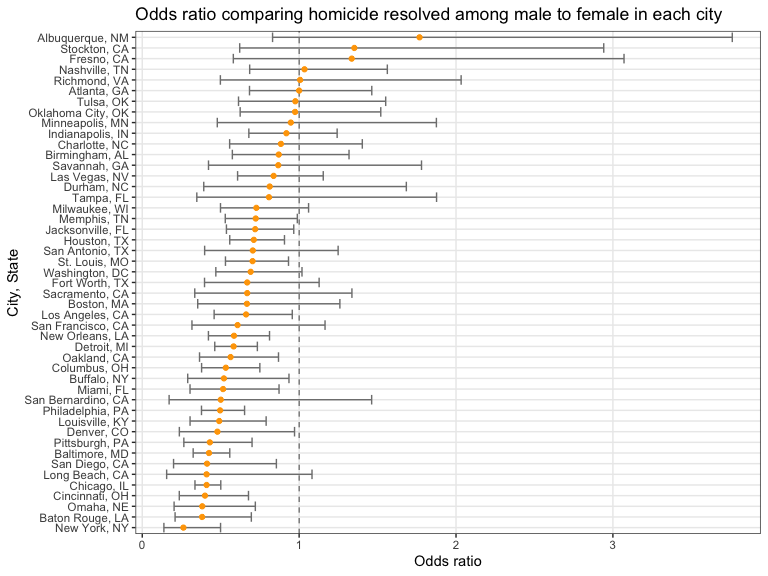
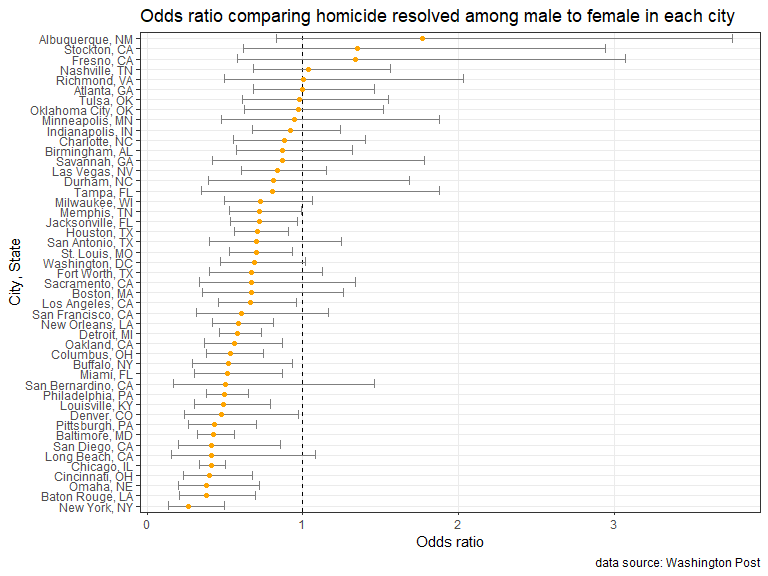
Created a violin plot to show the rmse results of three models. Created a table to show the mean rmse values of three models.

Changed region(s): [[0.0, 0.0, 1.0, 1.0], [0.7812, 0.9688, 1.0, 1.0]]

diff --git a/HW6.md b/HW6.md
@@ -4,10 +4,10 @@ Chee Kay Cheong
 2022-12-03
 
     ## ── Attaching packages ─────────────────────────────────────── tidyverse 1.3.2 ──
-    ## ✔ ggplot2 3.4.0      ✔ purrr   0.3.5 
-    ## ✔ tibble  3.1.8      ✔ dplyr   1.0.10
-    ## ✔ tidyr   1.2.1      ✔ stringr 1.4.1 
-    ## ✔ readr   2.1.3      ✔ forcats 0.5.2 
+    ## ✔ ggplot2 3.3.6     ✔ purrr   0.3.4
+    ## ✔ tibble  3.1.8     ✔ dplyr   1.0.9
+    ## ✔ tidyr   1.2.1     ✔ stringr 1.4.1
+    ## ✔ readr   2.1.2     ✔ forcats 0.5.2
     ## ── Conflicts ────────────────────────────────────────── tidyverse_conflicts() ──
     ## ✖ dplyr::filter() masks stats::filter()
     ## ✖ dplyr::lag()    masks stats::lag()
@@ -22,7 +22,7 @@ Chee Kay Cheong
     ##     collapse
     ## 
     ## 
-    ## This is mgcv 1.8-41. For overview type 'help("mgcv-package")'.
+    ## This is mgcv 1.8-40. For overview type 'help("mgcv-package")'.
 
 ## Problem 2
 
@@ -110,9 +110,11 @@ all_cities %>%
     geom_point(size = 1.5, color = "orange") +
     theme_bw()+
     theme(panel.grid.minor = element_blank()) +
-    ylab("City, State") +
-    xlab("Odds ratio") +
-    ggtitle("Odds ratio comparing homicide resolved among male to female in each city")
+  labs(
+    y = "City, State",
+    x = "Odds ratio",
+    title = "Odds ratio comparing homicide resolved among male to female in each city",
+    caption = "data source: Washington Post")
 ```
 
 ![](HW6_files/figure-gfm/plot%20OR%20AND%20CIs-1.png)<!-- -->
@@ -130,7 +132,7 @@ bwt_df =
     babysex = as.factor(babysex),
     malform = ifelse(malform == 1, "present", "absent"),
     malform = as.factor(malform),
-    delwt = delwt * 453.592) # I want to convert pounds to grams
+    delwt = delwt * 453.592) # I want to convert pounds to grams because I prefer standard scientific unit.
 
 # I did not change anything for father's & mother's race because I don't plan to use them in my regression model.
 ```
@@ -140,38 +142,72 @@ bwt_df =
 Outcome of interest: `bwt` (baby’s birthweight - grams)
 
 Predictors of interest:  
-\* `delwt` (mother’s weight at delivery - grams)  
-\* `gaweeks` (gestational age in weeks)  
+\* `delwt` (mother’s weight at delivery - grams) \* `fincome` (family
+monthly income - in hundreds, rounded) \* `gaweeks` (gestational age in
+weeks)  
 \* `momage` (mother’s age at delivery - years)
-
-Because the outcome of interest and all the predictors of interest are
-continuous variables, I plan to use linear regression to determine the
-the relationship between the predictors of interest and baby
-birthweight.
 
 Proposed linear regression model:
 
-Birthweight = intercept + beta1(`delwt`) + beta2(`gaweeks`) +
-beta3(`momage`)
+Birthweight = intercept + beta1(`delwt`) + beta2(`fincome`) +
+beta3(`gaweeks`) + beta4(`momage`)
 
 ``` r
 hypo_df = 
   bwt_df %>% 
-  select(bwt, delwt, gaweeks, momage)
+  select(bwt, delwt, fincome, gaweeks, momage)
 
-linear_model = 
+hypo_model = 
   hypo_df %>% 
-  lm(bwt ~ delwt + gaweeks + momage, data = .)
+  lm(bwt ~ delwt + fincome + gaweeks + momage, data = .)
 
-hypo_resid = 
-  hypo_df %>% 
-  mutate(
-  add_residuals(hypo_df, linear_model),
-  add_predictions(hypo_df, linear_model))
+hypo_model %>% 
+  broom::tidy() %>% 
+  knitr::kable(digits = 2)
 ```
 
+| term        | estimate | std.error | statistic | p.value |
+|:------------|---------:|----------:|----------:|--------:|
+| (Intercept) |  -235.64 |     94.90 |     -2.48 |    0.01 |
+| delwt       |     0.01 |      0.00 |     17.62 |    0.00 |
+| fincome     |     1.81 |      0.28 |      6.56 |    0.00 |
+| gaweeks     |    59.71 |      2.18 |     27.34 |    0.00 |
+| momage      |     6.17 |      1.86 |      3.32 |    0.00 |
+
 ``` r
-hypo_resid %>% 
+summary(hypo_model)
+```
+
+    ## 
+    ## Call:
+    ## lm(formula = bwt ~ delwt + fincome + gaweeks + momage, data = .)
+    ## 
+    ## Residuals:
+    ##      Min       1Q   Median       3Q      Max 
+    ## -1859.29  -280.83     3.12   283.07  1609.30 
+    ## 
+    ## Coefficients:
+    ##               Estimate Std. Error t value Pr(>|t|)    
+    ## (Intercept) -2.356e+02  9.490e+01  -2.483   0.0131 *  
+    ## delwt        1.197e-02  6.796e-04  17.619  < 2e-16 ***
+    ## fincome      1.814e+00  2.766e-01   6.559 6.06e-11 ***
+    ## gaweeks      5.971e+01  2.184e+00  27.338  < 2e-16 ***
+    ## momage       6.170e+00  1.857e+00   3.322   0.0009 ***
+    ## ---
+    ## Signif. codes:  0 '***' 0.001 '**' 0.01 '*' 0.05 '.' 0.1 ' ' 1
+    ## 
+    ## Residual standard error: 446.7 on 4337 degrees of freedom
+    ## Multiple R-squared:   0.24,  Adjusted R-squared:  0.2393 
+    ## F-statistic: 342.3 on 4 and 4337 DF,  p-value: < 2.2e-16
+
+``` r
+hypo_add = 
+  hypo_df %>% 
+  mutate(
+  add_residuals(hypo_df, hypo_model),
+  add_predictions(hypo_df, hypo_model))
+
+hypo_add %>% 
 ggplot(aes(x = pred, y = resid)) +
   geom_point() +
   labs(
@@ -181,3 +217,59 @@ ggplot(aes(x = pred, y = resid)) +
 ```
 
 ![](HW6_files/figure-gfm/residual%20plot-1.png)<!-- -->
+
+#### Compare different models
+
+``` r
+cv_df = 
+  crossv_mc(bwt_df, 100) %>%
+  mutate(
+    train = map(train, as.tibble),
+    test = map(test, as.tibble)) %>% 
+  mutate(
+    hypo_mod = map(.x = train, ~lm(bwt ~ delwt + fincome + gaweeks + momage, data = .x)), 
+    main_mod = map(.x = train, ~lm(bwt ~ blength + gaweeks, data = .x)), 
+    inter_mod = map(.x = train, ~lm(bwt ~ (bhead + blength + babysex + bhead*blength + bhead*babysex + blength*babysex + bhead*blength*babysex), data = .x))) %>% 
+  mutate(
+    rmse_hypothetical = map2_dbl(.x = hypo_mod, .y = test, ~rmse(model = .x, data = .y)),
+    rmse_main_effect = map2_dbl(.x = main_mod, .y = test, ~rmse(model = .x, data = .y)),
+    rmse_interaction = map2_dbl(.x = inter_mod, .y = test, ~rmse(model = .x, data = .y)))
+
+cv_df %>% 
+  select(starts_with("rmse")) %>% 
+  pivot_longer(
+    everything(),
+    names_to = "model", 
+    values_to = "rmse",
+    names_prefix = "rmse_") %>% 
+  mutate(model = fct_inorder(model)) %>% 
+  ggplot(aes(x = model, y = rmse)) + 
+  geom_violin() +
+  labs(
+    x = "model",
+    y = "rmse",
+    title = "Violin plot of RMSE comparing 3 models")
+```
+
+![](HW6_files/figure-gfm/comparison-1.png)<!-- -->
+
+``` r
+cv_df %>% 
+  select(starts_with("rmse")) %>% 
+  pivot_longer(
+    everything(),
+    names_to = "model", 
+    values_to = "rmse",
+    names_prefix = "rmse_") %>% 
+  group_by(model) %>% 
+  summarize(mean(rmse)) %>% 
+  mutate(mean_rmse = `mean(rmse)`) %>% 
+  select(-`mean(rmse)`) %>% 
+  knitr::kable(digits = 2)
+```
+
+| model        | mean_rmse |
+|:-------------|----------:|
+| hypothetical |    448.03 |
+| interaction  |    290.68 |
+| main_effect  |    336.65 |
